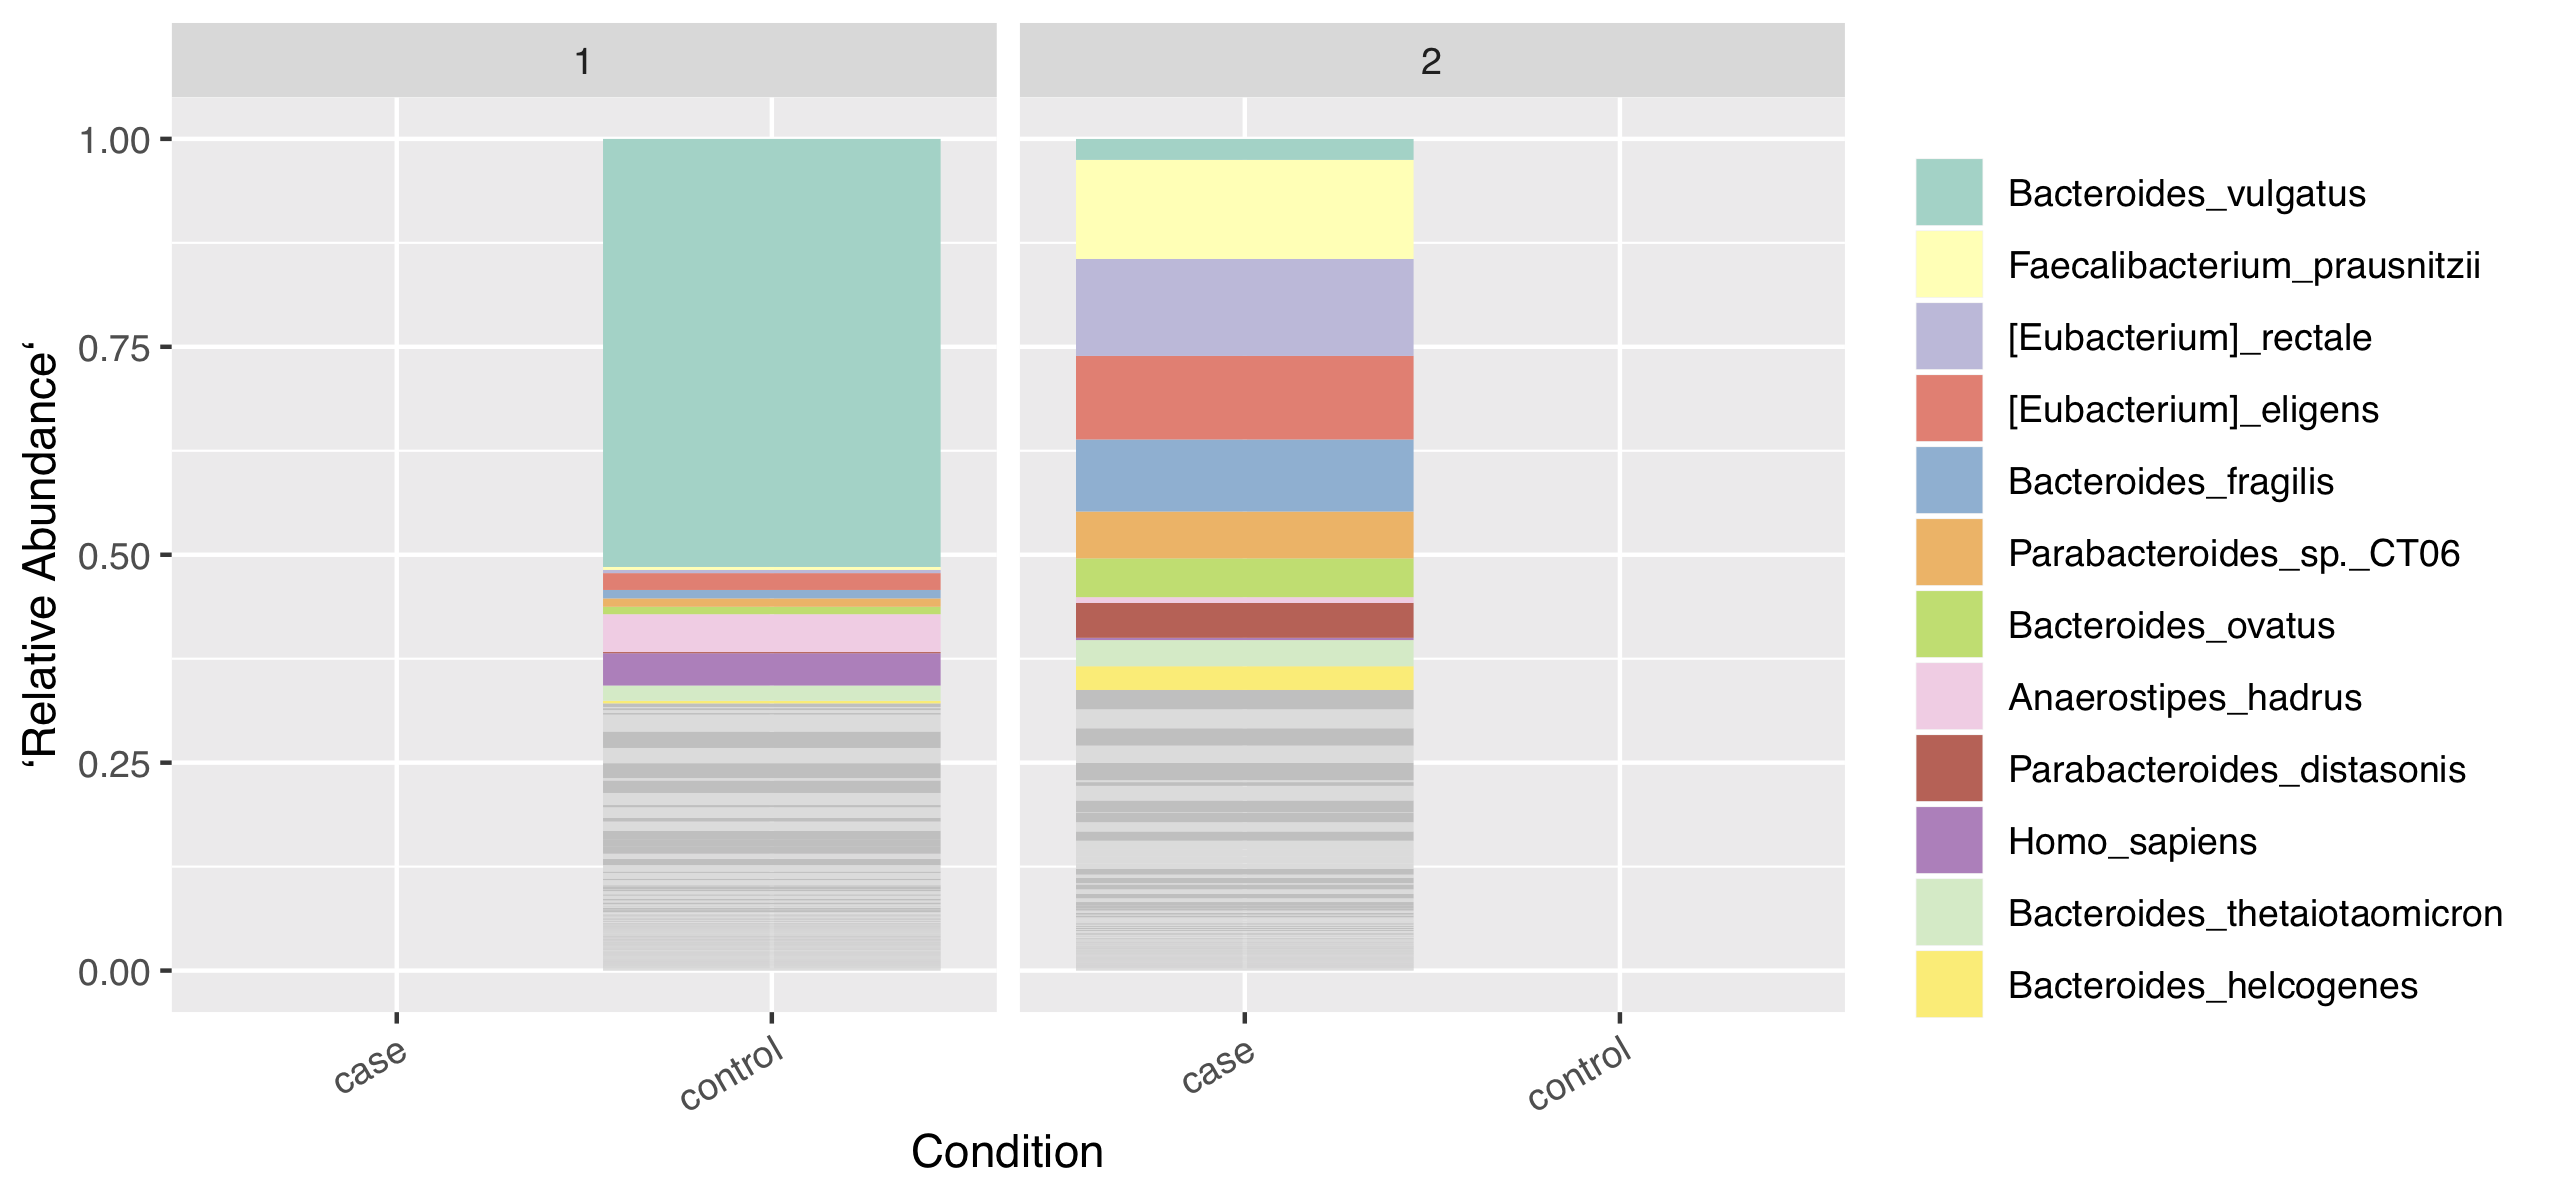
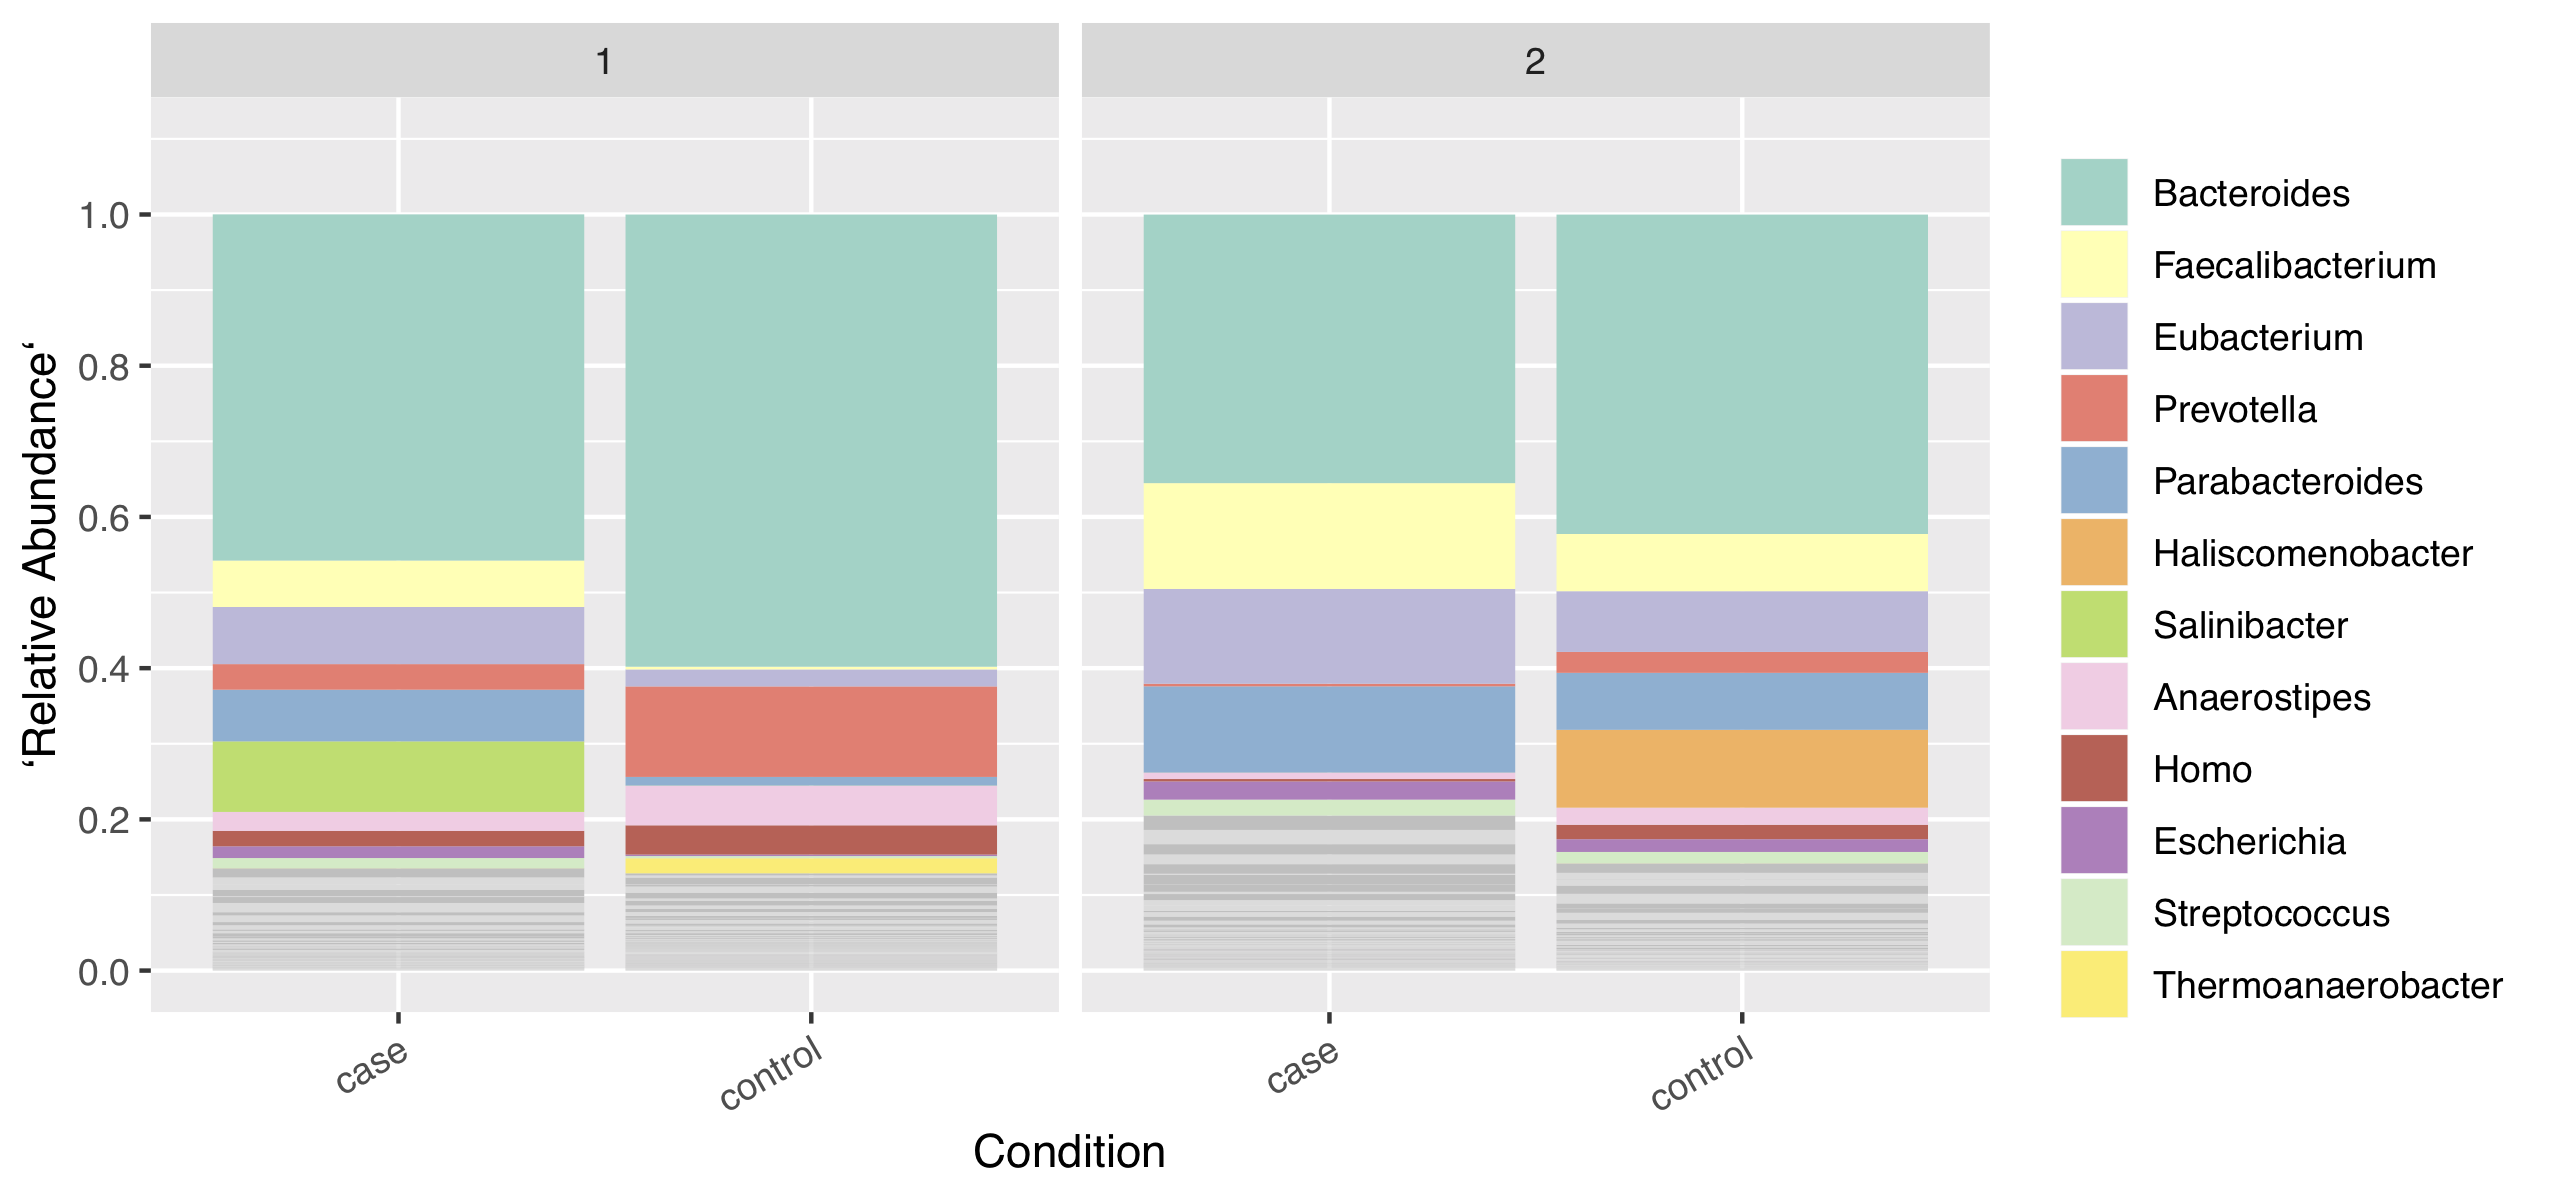
Further streamlined by removing half the config.yaml contents

diff --git a/scripts/collate_results.py b/scripts/collate_results.py
@@ -23,7 +23,7 @@ for inf in inputs:
 	with open(inf, 'r') as i:
 		for l in i.readlines()[1:]:
 			s = l.strip().split("\t")
-			sample = os.path.splitext(os.path.basename(inf))[0]
+			sample = os.path.splitext(os.path.basename(inf))[0].split('.')[0]
 			
 			percent = s[6]
 			reads = s[4]

diff --git a/README.md b/README.md
@@ -1,16 +1,15 @@
 # kraken2_classification
 Short read classification with the kraken2 program
 
-## Introduction
-[Kraken2](http://ccb.jhu.edu/software/kraken/) is a short read classification system that is fast and memory efficient. It allows you to assign a taxonomic identification to each read from a sequencing run. Kraken assigns each read to the lowest commen ancestor (LCA) of all sequences it alignes to. Through the use of the Bracken package, you can also get accurate estimates of proportions of different species. This guide will cover some of the basics, but the full [manual](http://ccb.jhu.edu/software/kraken/MANUAL.html) is quite good and has more detail.
-
-## Installation
+## Installation 
+Run the below.  It is also tasteful to copy datasets.tsv and config.yaml to a working directory for modification and workflow execution.
 ```
 conda env create -f classification2.yaml
 ```
 
 ## Usage
-Run the following in an interactive session, or submit it as a job.  Do not add `--profile scg` as is typically done with other workflows.
+Run the following in an interactive session, or submit it as a job.  Do not add `--profile scg` as is typically done with other workflows. By default, samples are classified using the high quality genbank database (see Databases section below) and postprocessed/visualized at the genus level. Edit the config.yaml file to change this behavior.
+
 ```
 source activate classification2
 snakemake -s path/to/Snakefile --configfile config.yaml
@@ -31,8 +30,9 @@ This yields a barplot that looks like this:
 
 ![example barplot](images/taxonomic_composition.png "barplot!")
 
-### Snakemake workflow
-A workflow and configuration file are provided in this repo. By default, samples are classified using the high quality genbank database. Edit the config.yaml file to change this behavior. Currently this depends on a list of sample names in the configuration file, and read files to be named following the sample name convention. 
+
+## Introduction
+[Kraken2](http://ccb.jhu.edu/software/kraken/) is a short read classification system that is fast and memory efficient. It allows you to assign a taxonomic identification to each read from a sequencing run. Kraken assigns each read to the lowest commen ancestor (LCA) of all sequences it alignes to. Through the use of the Bracken package, you can also get accurate estimates of proportions of different species. This guide will cover some of the basics, but the full [manual](http://ccb.jhu.edu/software/kraken/MANUAL.html) is quite good and has more detail.
 
 
 ### Memory usage
